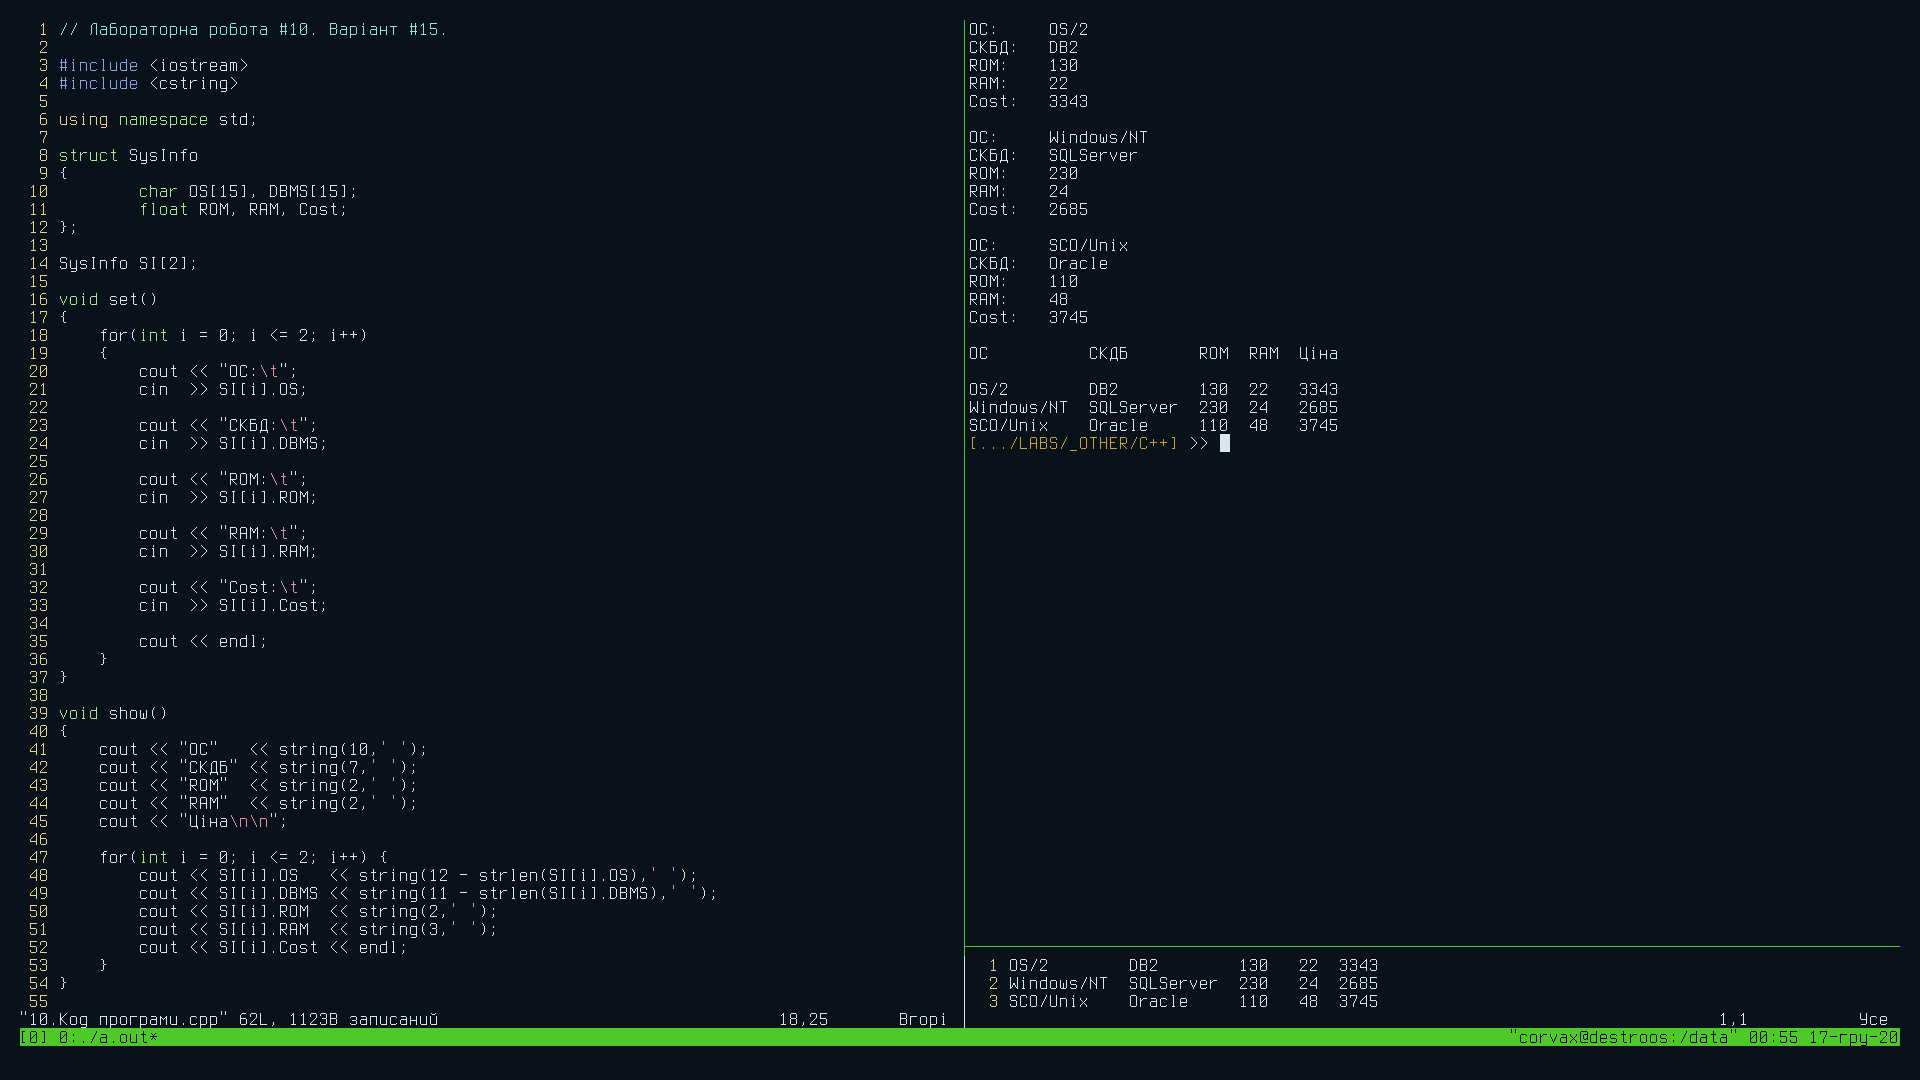
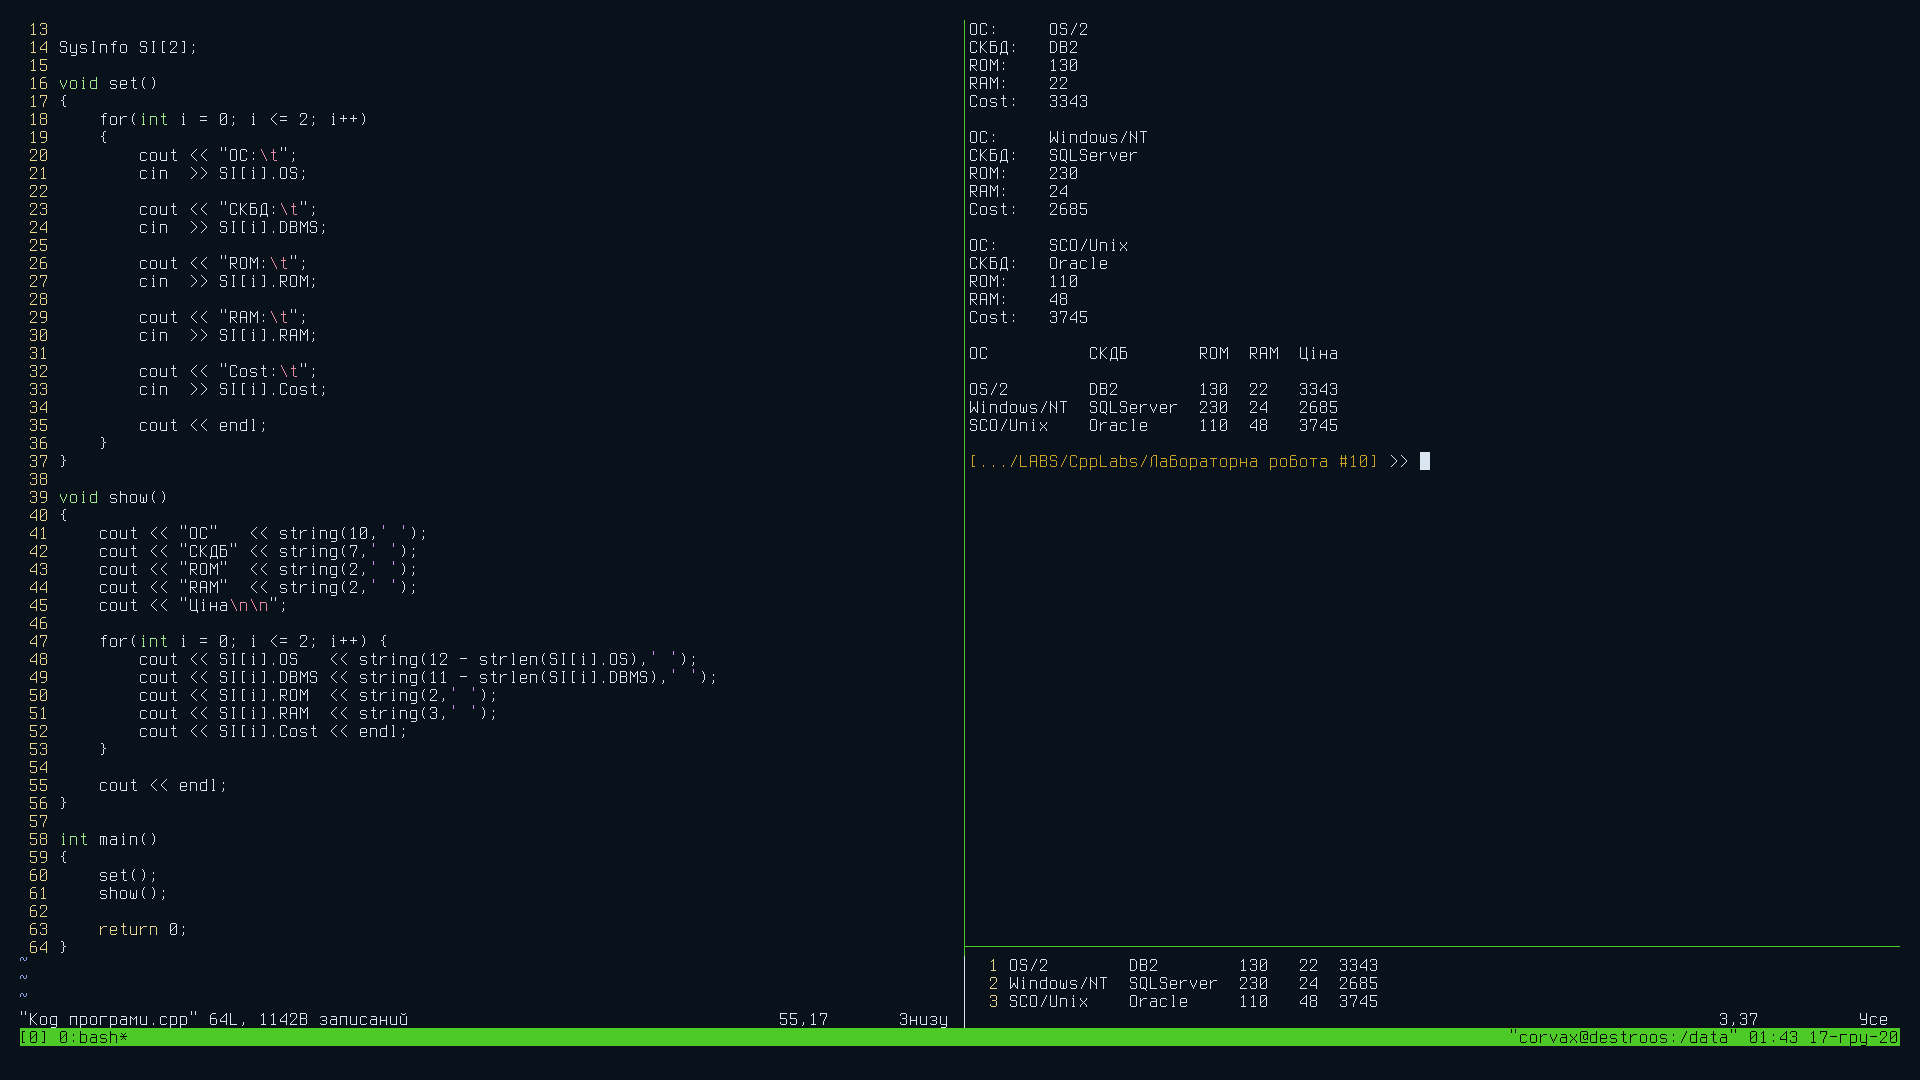
Виправлення помилок

diff --git a/Лабораторна робота #10/Код програми.cpp b/Лабораторна робота #10/Код програми.cpp
@@ -51,6 +51,8 @@ void show()
         cout << SI[i].RAM  << string(3,' ');
         cout << SI[i].Cost << endl;
     }
+
+    cout << endl;
 }
 
 int main()
